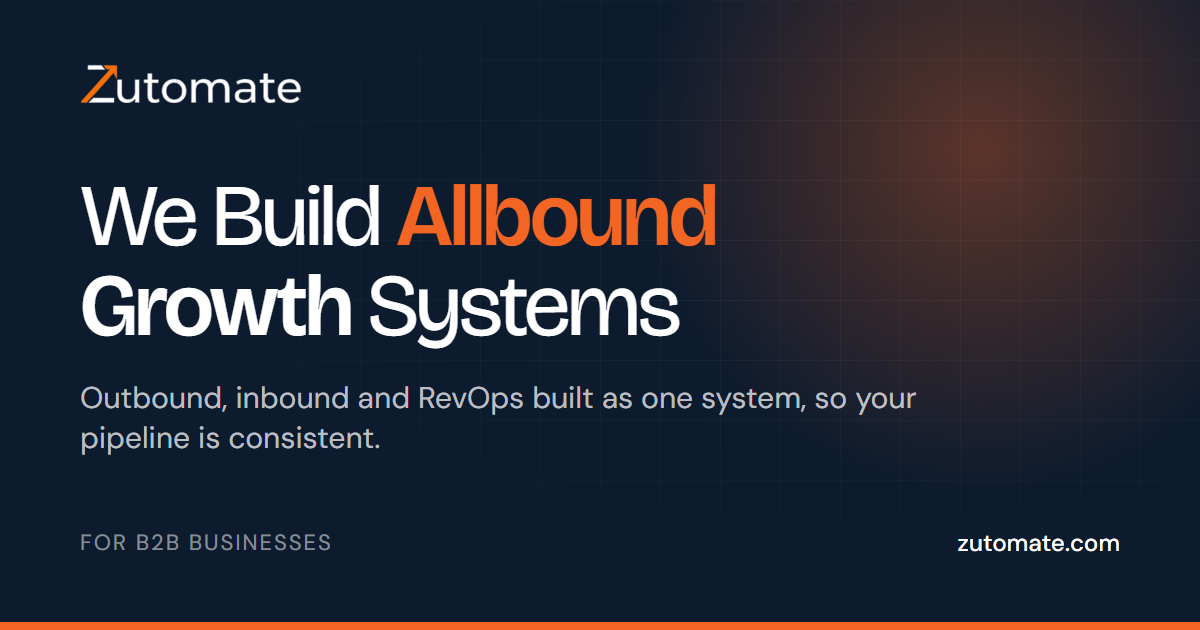
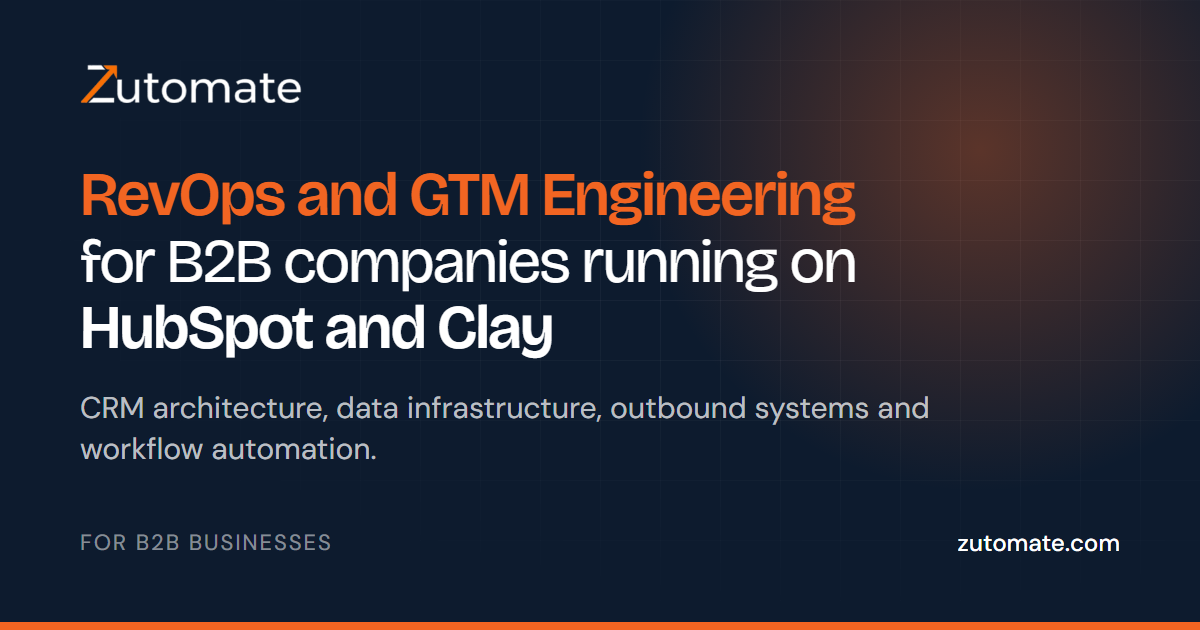
Reposition around RevOps and GTM engineering
- Page title and search description now say RevOps and GTM Engineering,
  replacing the Allbound wording everywhere it appeared.
- Hero subline is the full agency description; it sits in a wider column
  now that it is a paragraph rather than two short lines.
- The same description feeds Organization schema and llms.txt.
- Share image and copy guide rebuilt to match.

Changed region(s): [[0.0617, 0.2714, 0.7092, 0.573], [0.0617, 0.6032, 0.7708, 0.754]]

diff --git a/app/layout.tsx b/app/layout.tsx
@@ -4,9 +4,9 @@ import JsonLd from "./components/JsonLd";
 import { graph, organization } from "./seo/schema";
 
 export const metadata: Metadata = {
-  title: "Zutomate | Allbound Growth Systems for B2B",
+  title: "Zutomate | RevOps and GTM Engineering for B2B",
   description:
-    "Zutomate builds allbound growth systems for B2B teams: outbound, inbound and RevOps as one system, powered by Clay automations and AI agents.",
+    "Zutomate is a RevOps and GTM engineering agency for B2B companies. We design, build and manage CRM architecture, data infrastructure and outbound systems.",
   metadataBase: new URL("https://zutomate.com"),
   alternates: { canonical: "/" },
   // /favicon.ico comes from the app/favicon.ico file convention, which emits its
@@ -19,17 +19,17 @@ export const metadata: Metadata = {
   openGraph: {
     type: "website",
     url: "https://zutomate.com/",
-    title: "Zutomate | Allbound Growth Systems for B2B",
+    title: "Zutomate | RevOps and GTM Engineering for B2B",
     description:
-      "Zutomate builds allbound growth systems for B2B teams: outbound, inbound and RevOps as one system, powered by Clay automations and AI agents.",
+      "Zutomate is a RevOps and GTM engineering agency for B2B companies. We design, build and manage CRM architecture, data infrastructure and outbound systems.",
     siteName: "Zutomate",
     images: [{ url: "/og-image.png" }],
   },
   twitter: {
     card: "summary_large_image",
-    title: "Zutomate | Allbound Growth Systems for B2B",
+    title: "Zutomate | RevOps and GTM Engineering for B2B",
     description:
-      "Zutomate builds allbound growth systems for B2B teams: outbound, inbound and RevOps as one system, powered by Clay automations and AI agents.",
+      "Zutomate is a RevOps and GTM engineering agency for B2B companies. We design, build and manage CRM architecture, data infrastructure and outbound systems.",
     images: ["/og-image.png"],
   },
 };

diff --git a/app/globals.css b/app/globals.css
@@ -340,7 +340,7 @@
       letter-spacing: -1px;
     }
 
-    /* "Allbound" in orange, same weight — not bold */
+    /* accent word in orange, same weight — not bold */
     h1 .accent {
       color: var(--orange);
       font-weight: 500;
@@ -359,7 +359,7 @@
       color: var(--w55);
       font-weight: 300;
       line-height: 1.72;
-      max-width: 500px;
+      max-width: 720px;
       margin: 0 auto 52px;
     }
 
@@ -4529,7 +4529,7 @@ nav.nav-scrolled {
 }
 
 /* Headline weight rhythm: bold on the substantive words, light on the
-   connective ones — "We Build [Allbound Growth] Systems". All one colour;
+   connective ones — "[RevOps and GTM Engineering] for B2B companies running on [HubSpot and Clay]". All one colour;
    the contrast comes entirely from weight.
    700 was added to the Bricolage request in layout.tsx for this; the font was
    previously only loaded to 600, which was too weak against 300. */

diff --git a/app/seo/schema.ts b/app/seo/schema.ts
@@ -32,7 +32,7 @@ export function graph(...nodes: (Node | null)[]) {
 }
 
 export const ORG_DESCRIPTION =
-  'Zutomate is a B2B go-to-market agency that builds AI-powered outbound systems, Clay automations and AI agents for B2B teams selling high-ticket services and software. It combines outbound, inbound and revenue operations into one growth system.';
+  'Zutomate is a RevOps and GTM engineering agency for B2B companies. We design, build, and manage the systems behind modern GTM teams, from CRM architecture and data infrastructure to outbound systems, integrations, and workflow automation.';
 
 /* ── Organization: on every page, via the root layout ── */
 export function organization(): Node {

diff --git a/app/components/Hero.tsx b/app/components/Hero.tsx
@@ -207,8 +207,7 @@ export default function Hero() {
         </motion.h1>
 
         <motion.p className="hero-sub" variants={item}>
-          Outbound, inbound and RevOps built as one system,{' '}<br />
-          so your pipeline is consistent.
+          Zutomate is a RevOps and GTM engineering agency for B2B companies. We design, build, and manage the systems behind modern GTM teams, from CRM architecture and data infrastructure to outbound systems, integrations, and workflow automation.
         </motion.p>
 
         <motion.div className="trial-wrap" id="hero-cta-form" variants={item}>

diff --git a/.claude/skills/copy.md b/.claude/skills/copy.md
@@ -13,11 +13,9 @@
 - Serves B2B businesses that want predictable pipeline
 
 ## Hero Tagline
-> "We Build Allbound Growth Systems for B2B Businesses"
+> "RevOps and GTM Engineering for B2B companies running on HubSpot and Clay"
 
-Sub: "Outbound, inbound and RevOps built as one system, so your pipeline is consistent."
-
-"Allbound" is jargon many buyers won't know, so whenever it leads a headline, the line under it must say what it means: outbound, inbound and RevOps as one system.
+Sub: "Zutomate is a RevOps and GTM engineering agency for B2B companies. We design, build, and manage the systems behind modern GTM teams, from CRM architecture and data infrastructure to outbound systems, integrations, and workflow automation."
 
 ## Banned Words / Phrases
 - "cutting-edge" / "state-of-the-art"
